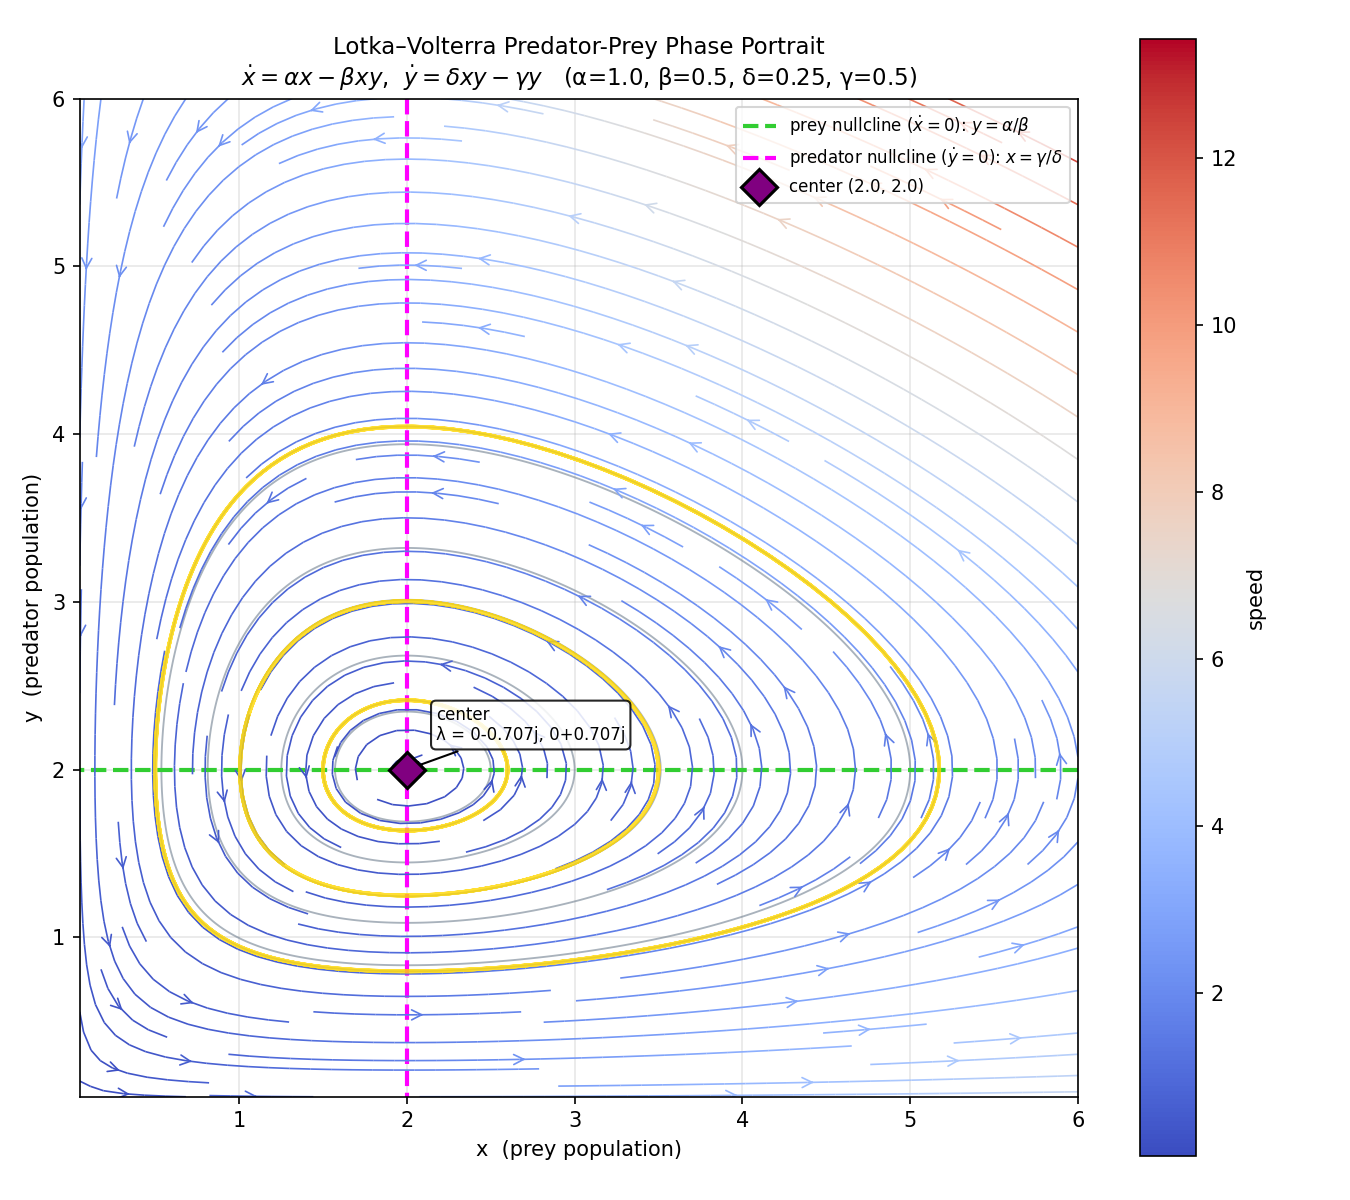
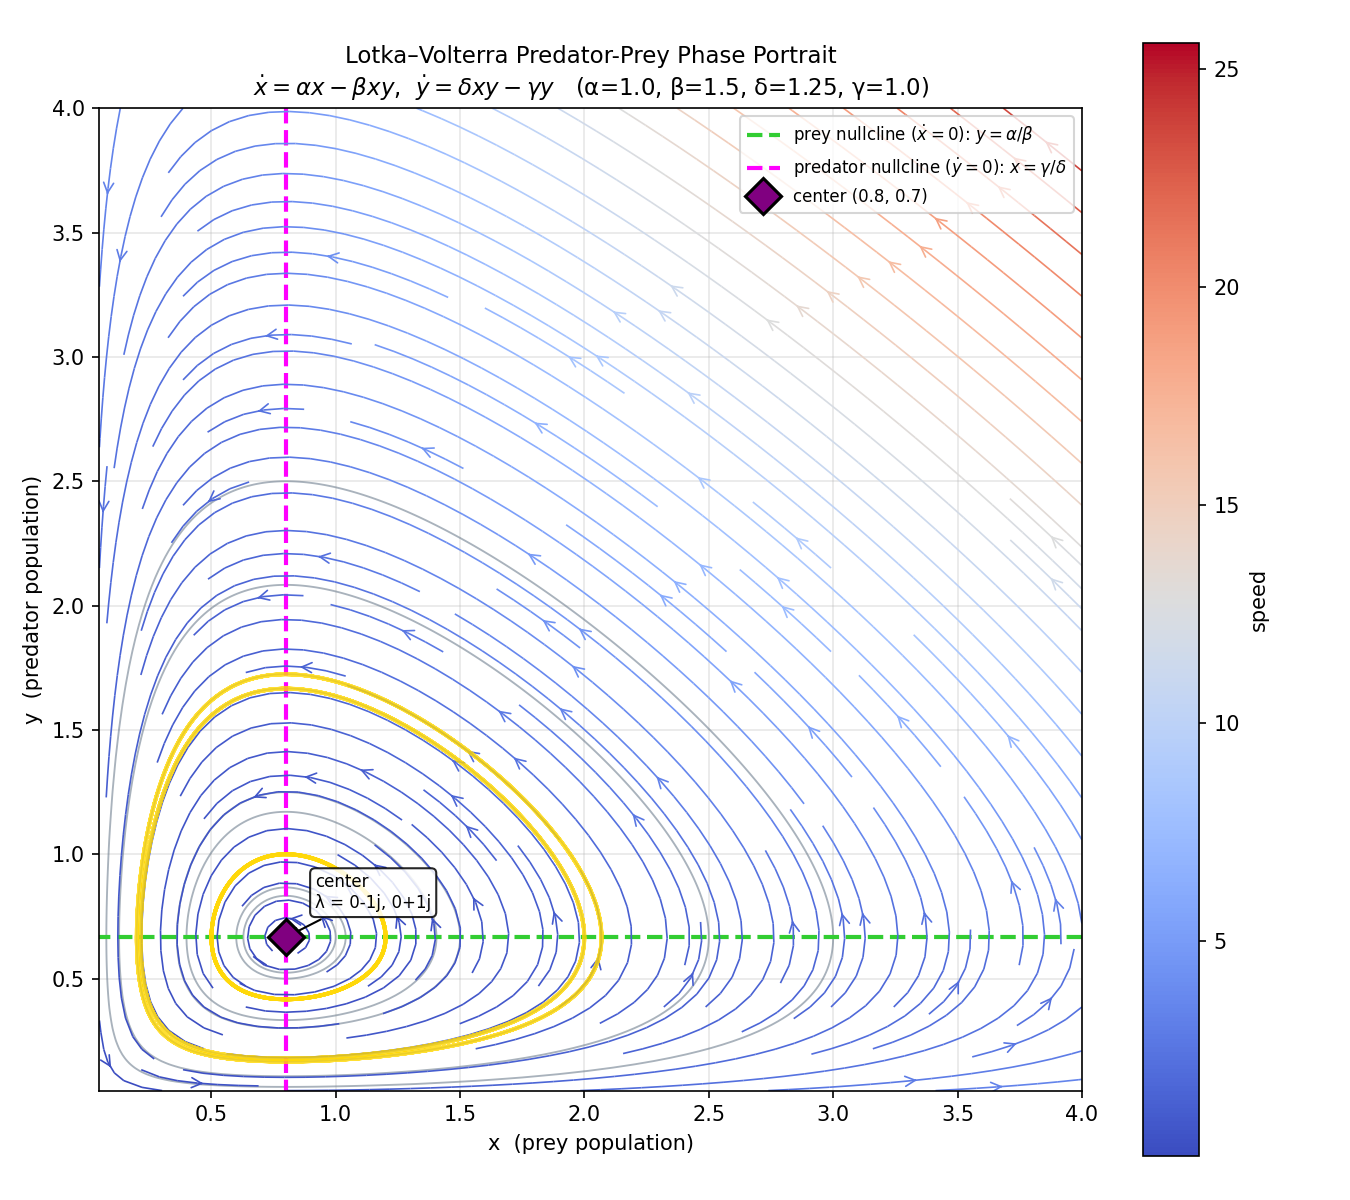
Update Lotka-Volterra with new parameters (α=1, β=1.5, δ=1.25, γ=1)

Changed region(s): [[0.0, 0.0308, 0.8089, 0.9867], [0.84, 0.0308, 0.9333, 0.9558]]

diff --git a/lotka_volterra.py b/lotka_volterra.py
@@ -5,10 +5,10 @@ Lotka–Volterra Predator-Prey Phase Portrait
     dx/dt = αx  - βxy   =  x(α - βy)     (prey)
     dy/dt = δxy - γy     =  y(δx - γ)     (predator)
 
-Parameters used:  α = 1, β = 0.5, δ = 0.25, γ = 0.5
+Parameters used:  α = 1, β = 1.5, δ = 1.25, γ = 1
 Equilibria:
-    (0, 0)            — saddle
-    (γ/δ, α/β) = (2, 2) — center  (conserved quantity → closed orbits)
+    (0, 0)              — saddle
+    (γ/δ, α/β) = (0.8, 0.667) — center  (conserved quantity → closed orbits)
 """
 
 import sympy as sp
@@ -21,7 +21,7 @@ from phase_portrait import (find_equilibria, classify_equilibrium)
 
 
 # ── Parameters ──
-alpha, beta, delta, gamma_ = 1.0, 0.5, 0.25, 0.5
+alpha, beta, delta, gamma_ = 1.0, 1.5, 1.25, 1.0
 
 x, y = sp.symbols("x y")
 f_expr = alpha * x - beta * x * y      # prey  dx/dt
@@ -44,7 +44,7 @@ def H(xv, yv):
                 + beta * yv - alpha * np.log(yv))
 
 # ── Plot ──
-xlim, ylim = (0.05, 6), (0.05, 6)
+xlim, ylim = (0.05, 4), (0.05, 4)
 grid_n = 300
 
 xs = np.linspace(xlim[0], xlim[1], grid_n)
@@ -61,7 +61,7 @@ fig, ax = plt.subplots(figsize=(9, 8))
 Hval = H(X, Y)
 # Choose contour levels from orbits passing through specific initial conditions
 h_levels = sorted(set(
-    H(x0, 2.0) for x0 in [0.5, 1.0, 1.5, 2.5, 3.0, 4.0, 5.0]
+    H(x0, alpha / beta) for x0 in [0.2, 0.4, 0.6, 1.0, 1.5, 2.0, 2.5, 3.0]
 ))
 ax.contour(X, Y, Hval, levels=h_levels, colors="slategray",
            linewidths=0.9, alpha=0.6)
@@ -89,9 +89,10 @@ strm = ax.streamplot(Xq, Yq, Uq, Vq, color=sq, cmap="coolwarm",
 fig.colorbar(strm.lines, ax=ax, label="speed")
 
 # Trajectory examples — integrate a few orbits to show direction
-for x0_val in [0.5, 1.5, 3.5]:
+eq_x, eq_y = gamma_ / delta, alpha / beta
+for x0_val in [0.2, 0.5, 1.2, 2.0]:
     sol = solve_ivp(lambda t, s: [f_func(s[0], s[1]), g_func(s[0], s[1])],
-                    [0, 30], [x0_val, 2.0], max_step=0.05)
+                    [0, 30], [x0_val, eq_y], max_step=0.05)
     ax.plot(sol.y[0], sol.y[1], color="gold", lw=1.8, alpha=0.8,
             zorder=3)
 

diff --git a/README.md b/README.md
@@ -40,7 +40,7 @@ The classic predator-prey model:
 
 $$\dot{x} = \alpha x - \beta x y, \quad \dot{y} = \delta x y - \gamma y$$
 
-with parameters α=1, β=0.5, δ=0.25, γ=0.5.
+with parameters α=1, β=1.5, δ=1.25, γ=1.
 
 ```bash
 python lotka_volterra.py
@@ -49,12 +49,12 @@ python lotka_volterra.py
 ![Lotka–Volterra Phase Portrait](lotka_volterra.png)
 
 **Equilibria:**
-- **(0, 0)** — saddle point (eigenvalues λ = -0.5, 1). The origin is an unstable fixed point where both species are extinct; any small perturbation drives the system away.
-- **(2, 2)** — center (eigenvalues λ = ±0.5i). Purely imaginary eigenvalues produce closed orbits — the populations oscillate periodically with no damping.
+- **(0, 0)** — saddle point (eigenvalues λ = 1, −1). The origin is an unstable fixed point where both species are extinct; any small perturbation drives the system away.
+- **(0.8, 0.667)** — center (eigenvalues λ = ±i). Purely imaginary eigenvalues produce closed orbits — the populations oscillate periodically with no damping.
 
 **Key features visible in the portrait:**
-- **Green dashed line** (prey nullcline, `dx/dt = 0`): the horizontal line `y = α/β = 2`. Above it prey declines; below it prey grows.
-- **Magenta dashed line** (predator nullcline, `dy/dt = 0`): the vertical line `x = γ/δ = 2`. Left of it predators decline; right of it predators grow.
+- **Green dashed line** (prey nullcline, `dx/dt = 0`): the horizontal line `y = α/β = 0.667`. Above it prey declines; below it prey grows.
+- **Magenta dashed line** (predator nullcline, `dy/dt = 0`): the vertical line `x = γ/δ = 0.8`. Left of it predators decline; right of it predators grow.
 - **Gray contours**: level curves of the conserved quantity `H(x,y) = δx − γ ln x + βy − α ln y`, confirming that orbits are closed.
 - **Gold trajectories**: sample orbits showing the counter-clockwise cycling — prey peak is followed by predator peak with a phase lag.
 
